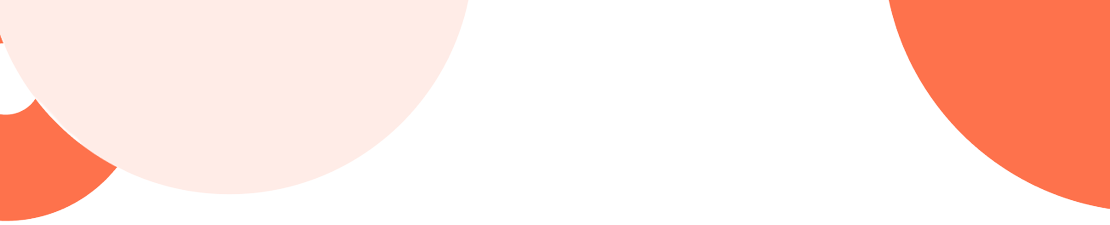
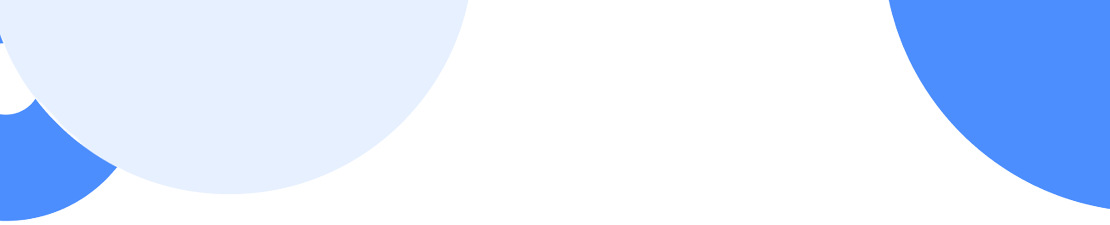
change colors + name in payment + refactoe core folder sturcture

Changed region(s): [[0.7964, 0.0, 1.0, 0.9333], [0.0, 0.4356, 0.1225, 0.9956], [0.1838, 0.84, 0.2144, 0.8711]]

diff --git a/lib/Features/payment/data/data_sources/payment_remote_data_source.dart b/lib/Features/payment/data/data_sources/payment_remote_data_source.dart
@@ -7,8 +7,10 @@ import 'package:foody/Features/payment/data/models/ephemeral_key_model/ephemeral
 import 'package:foody/Features/payment/data/models/init_payment_sheet_input_model.dart';
 import 'package:foody/Features/payment/data/models/payment_intent_input_model.dart';
 import 'package:foody/Features/payment/data/models/payment_intent_model/payment_intent_model.dart';
+import 'package:foody/Features/profile/presentation/manger/get_user_profile_state.dart';
+import 'package:get/get.dart';
 
-import '../../../../core/utils/api_service.dart';
+import '../../../../core/services/api_service.dart';
 
 abstract class PaymentRemoteDataSource {
   Future<void> makePayment(
@@ -17,6 +19,7 @@ abstract class PaymentRemoteDataSource {
 
 class PaymentRemoteDataSourceImpl extends PaymentRemoteDataSource {
   final ApiService apiService;
+  final GetUserProfileController profileController = Get.find();
 
   PaymentRemoteDataSourceImpl(this.apiService);
 
@@ -44,7 +47,7 @@ class PaymentRemoteDataSourceImpl extends PaymentRemoteDataSource {
             initiPaymentSheetInputModel.ephemeralKeySecret,
         customerId: initiPaymentSheetInputModel.customerId,
         //to do : change name to user name
-        merchantDisplayName: 'Salman',
+        merchantDisplayName: profileController.profileEntity.value!.userName!,
       ),
     );
   }

diff --git a/lib/core/constants/colors.dart b/lib/core/constants/colors.dart
@@ -2,21 +2,21 @@ import 'package:flutter/material.dart';
 
 class AppColors {
   static const List<Color> indicators = [
-    Color(0xffFED2C7),
-    Color(0xffFED2C7),
-    Color(0xffFEA58D),
-    Color(0xffFE8160),
-    Color(0xffFE724C),
+    Color(0xffAEC6CF), // Light blue
+    Color(0xffAEC6CF), // Light blue
+    Color(0xff87CEEB), // Sky blue
+    Color(0xff4682B4), // Steel blue
+    Color(0xff1E90FF), // Dodger blue
   ];
   // text
   static const Color white100 = Color(0xffffffff);
   static const Color white21 = Color(0x36ffffff);
   static const Color white10 = Color(0x1Affffff);
 
-  static const Color orange100 = Color(0xffFE724C);
-  static const Color orange80 = Color(0xffFE8160);
-  static const Color orange50 = Color(0xffFEA58D);
-  static const Color orange20 = Color(0xffFED2C7);
+  static const Color orange100 = Color(0xff1E90FF); // Primary blue
+  static const Color orange80 = Color(0xff4682B4); // Steel blue
+  static const Color orange50 = Color(0xff87CEEB); // Sky blue
+  static const Color orange20 = Color(0xffAEC6CF); // Light blue
 
   static const Color dark100 = Color(0xff1A1D26);
   static const Color dark80 = Color(0xff2A2F3D);

diff --git a/lib/core/services/app_services.dart b/lib/core/services/app_services.dart
@@ -14,13 +14,13 @@ import 'package:foody/Features/profile/profile_binding.dart';
 import 'package:foody/core/constants/constants.dart';
 import 'package:foody/core/hive_boxes/auth_box.dart';
 import 'package:foody/core/hive_boxes/settings_box.dart';
-import 'package:foody/core/utils/api_service.dart';
+import 'package:foody/core/services/api_service.dart';
 import 'package:get/get.dart';
 import 'package:hive/hive.dart';
 import 'package:path_provider/path_provider.dart';
 
 import '../../localization/local_controller.dart';
-import '../helper/app_print_class.dart';
+import '../utils/app_print_class.dart';
 import 'package:permission_handler/permission_handler.dart';
 
 class AppServices extends GetxService {

diff --git a/lib/Features/product/presentation/manger/products_by_title_state.dart b/lib/Features/product/presentation/manger/products_by_title_state.dart
@@ -3,7 +3,7 @@ import 'package:foody/Features/product/domain/entities/product_entity.dart';
 import 'package:foody/Features/product/domain/use_cases/get_products_by_title_use_case.dart';
 import 'package:foody/Features/product/presentation/manger/products_base_state.dart';
 import 'package:foody/Features/product/presentation/manger/products_top_home_state.dart';
-import 'package:foody/core/helper/app_print_class.dart';
+import 'package:foody/core/utils/app_print_class.dart';
 import 'package:get/get.dart';
 
 class ProductsByTitleController extends ProductsBaseController {

diff --git a/lib/Features/profile/presentation/views/profile_screen.dart b/lib/Features/profile/presentation/views/profile_screen.dart
@@ -5,7 +5,7 @@ import 'package:flutter_screenutil/flutter_screenutil.dart';
 import 'package:foody/Features/profile/presentation/manger/get_user_profile_state.dart';
 import 'package:foody/core/constants/colors.dart';
 import 'package:foody/core/constants/spacing.dart';
-import 'package:foody/core/utils/size_config.dart';
+import 'package:foody/core/services/size_config.dart';
 import 'package:foody/core/widgets/back.dart';
 import 'package:foody/core/widgets/form_label_field_widget.dart';
 import 'package:foody/core/widgets/indicator.dart';

diff --git a/lib/Features/login/presentation/views/widgets/login_form_widget.dart b/lib/Features/login/presentation/views/widgets/login_form_widget.dart
@@ -1,7 +1,7 @@
 import 'package:flutter/material.dart';
 import 'package:flutter_screenutil/flutter_screenutil.dart';
 import 'package:foody/Features/login/presentation/manger/login_controller.dart';
-import 'package:foody/core/helper/validations.dart';
+import 'package:foody/core/utils/validations.dart';
 import 'package:foody/core/widgets/form_label_field_widget.dart';
 import 'package:get/get.dart';
 import 'package:get/get_state_manager/get_state_manager.dart';

diff --git a/lib/Features/login/login_binding.dart b/lib/Features/login/login_binding.dart
@@ -2,7 +2,7 @@ import 'package:foody/Features/login/presentation/manger/login_controller.dart';
 import 'package:foody/Features/login/presentation/manger/welcome_controller.dart';
 import 'package:get/get.dart';
 
-import '../../core/utils/api_service.dart';
+import '../../core/services/api_service.dart';
 import 'data/data_sources/user_remote_data_source.dart';
 import 'data/repos/user_repo_impl.dart';
 import 'domain/use_cases/login_use_case.dart';

diff --git a/lib/Features/product/data/data_sources/product_remote_data_source.dart b/lib/Features/product/data/data_sources/product_remote_data_source.dart
@@ -5,7 +5,7 @@ import 'package:foody/Features/product/domain/entities/product_entity.dart';
 import 'package:foody/core/constants/constants.dart';
 import 'package:foody/core/api_routes.dart';
 import 'package:foody/core/functions/save_products.dart';
-import 'package:foody/core/utils/api_service.dart';
+import 'package:foody/core/services/api_service.dart';
 import 'package:foody/core/utils/de_bouncer.dart';
 import 'package:get/get.dart';
 

diff --git a/lib/Features/order/data/data_sources/order_remote_data_source.dart b/lib/Features/order/data/data_sources/order_remote_data_source.dart
@@ -4,7 +4,7 @@ import 'package:foody/Features/order/domain/entities/add_order_response_entity.d
 import 'package:foody/Features/order/domain/entities/order_entity.dart';
 
 import '../../../../core/api_routes.dart';
-import '../../../../core/utils/api_service.dart';
+import '../../../../core/services/api_service.dart';
 
 abstract class OrderRemoteDataSource {
   Future<OrderResponseEntity> addNewOrder({required OrderEntity orderEntity});

diff --git a/lib/Features/category/data/data_sources/category_remote_data_source.dart b/lib/Features/category/data/data_sources/category_remote_data_source.dart
@@ -4,7 +4,7 @@ import 'package:foody/Features/product/domain/entities/product_entity.dart';
 import 'package:foody/core/constants/constants.dart';
 import 'package:foody/core/api_routes.dart';
 import 'package:foody/core/functions/save_products.dart';
-import 'package:foody/core/utils/api_service.dart';
+import 'package:foody/core/services/api_service.dart';
 
 import 'package:dio/dio.dart';
 import 'package:get/get.dart';

diff --git a/lib/Features/product/product_binding.dart b/lib/Features/product/product_binding.dart
@@ -9,7 +9,7 @@ import 'package:get/get.dart';
 
 import '../product/data/data_sources/product_local_data_source.dart';
 import '../product/domain/use_cases/get_products_use_case.dart';
-import '../../core/utils/api_service.dart';
+import '../../core/services/api_service.dart';
 import '../product/data/data_sources/product_remote_data_source.dart';
 import '../product/data/repos/product_repo_impl.dart';
 

diff --git a/lib/Features/product/presentation/views/product_details_screen.dart b/lib/Features/product/presentation/views/product_details_screen.dart
@@ -86,6 +86,7 @@ class ProductDetailScreen extends GetView<ProductDetailsController> {
                           "assets/icons/lock.svg",
                           width: 18.w,
                           height: 18.w,
+                          color: AppColors.orange100,
                         ),
                       ),
                       SizedBox(width: 12.w),
